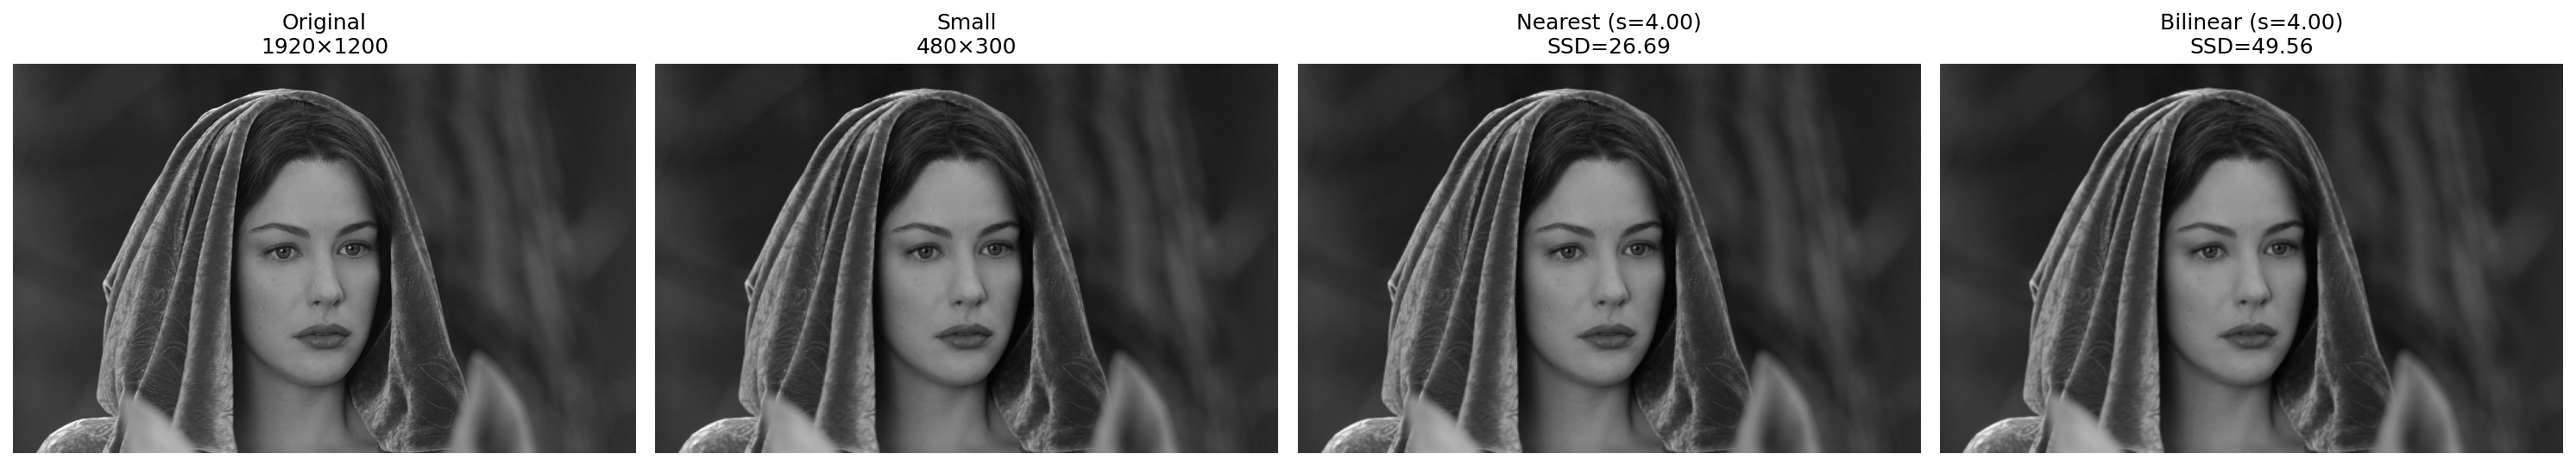
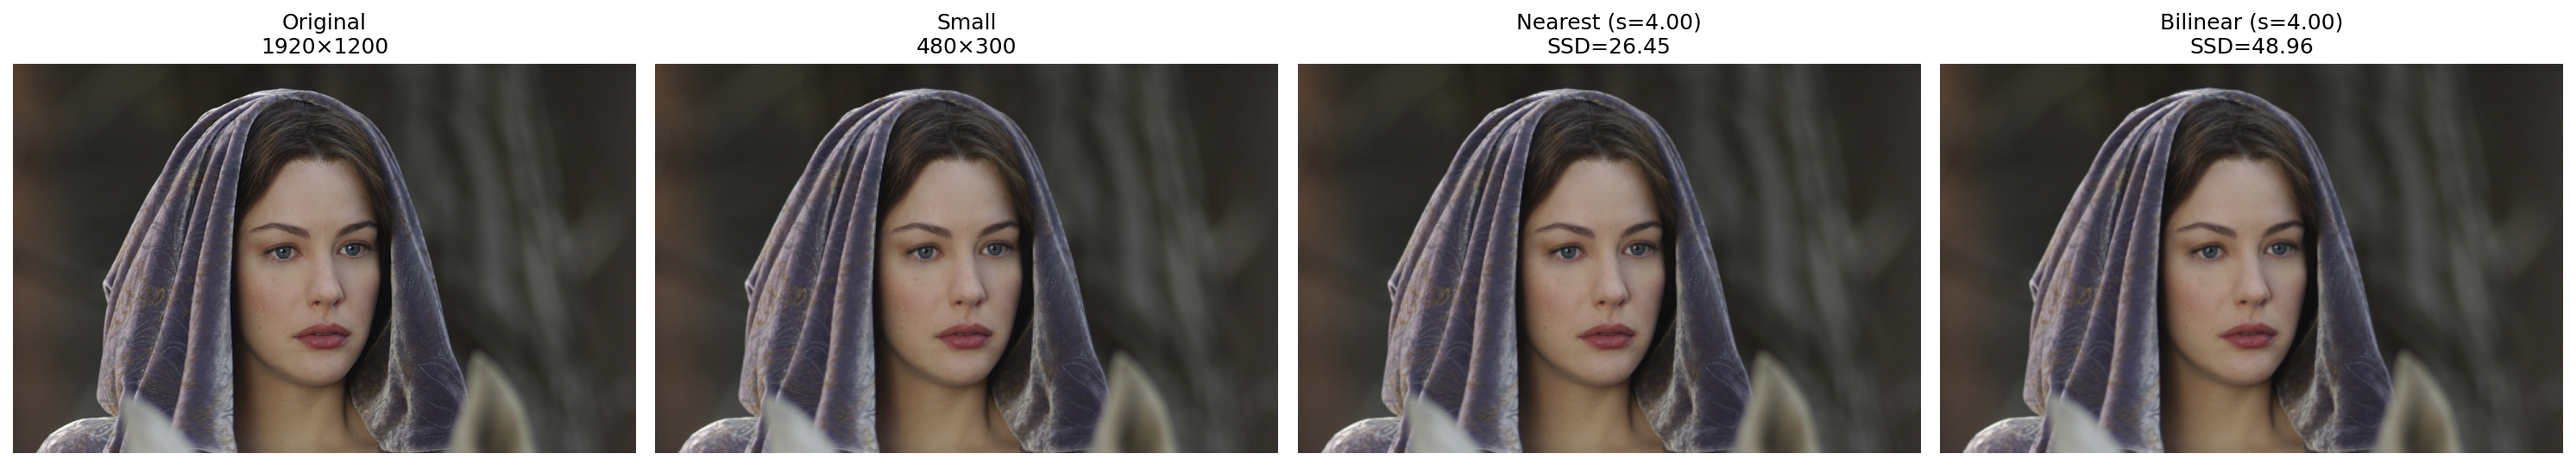
Update zoom test to read colour images

diff --git a/zoom_ssd_test.py b/zoom_ssd_test.py
@@ -17,16 +17,20 @@ def normalized_ssd(img_a, img_b):
 
 
 def evaluate(original_path, small_path):
-    original = cv2.imread(original_path, cv2.IMREAD_GRAYSCALE)
-    small    = cv2.imread(small_path,    cv2.IMREAD_GRAYSCALE)
+    original_bgr = cv2.imread(original_path)
+    small_bgr    = cv2.imread(small_path)
 
-    if original is None:
+    if original_bgr is None:
         raise FileNotFoundError(f"Could not load '{original_path}'")
-    if small is None:
+    if small_bgr is None:
         raise FileNotFoundError(f"Could not load '{small_path}'")
 
-    H, W = original.shape
-    h, w = small.shape
+    # Convert BGR → RGB for display
+    original = cv2.cvtColor(original_bgr, cv2.COLOR_BGR2RGB)
+    small    = cv2.cvtColor(small_bgr,    cv2.COLOR_BGR2RGB)
+
+    H, W = original.shape[:2]
+    h, w = small.shape[:2]
     s = W / w   # scale factor to match original size
 
     zoomed_nn = zoom(small, s=s, method='nearest')
@@ -62,19 +66,19 @@ for orig_path, small_path in pairs:
 
     fig, axes = plt.subplots(1, 4, figsize=(20, 5))
 
-    axes[0].imshow(original, cmap='gray')
+    axes[0].imshow(original, cmap=None)
     axes[0].set_title(f'Original\n{original.shape[1]}×{original.shape[0]}')
     axes[0].axis('off')
 
-    axes[1].imshow(small, cmap='gray')
+    axes[1].imshow(small, cmap=None)
     axes[1].set_title(f'Small\n{small.shape[1]}×{small.shape[0]}')
     axes[1].axis('off')
 
-    axes[2].imshow(zoomed_nn, cmap='gray')
+    axes[2].imshow(zoomed_nn, cmap=None)
     axes[2].set_title(f'Nearest (s={s:.2f})\nSSD={ssd_nn:.2f}')
     axes[2].axis('off')
 
-    axes[3].imshow(zoomed_bl, cmap='gray')
+    axes[3].imshow(zoomed_bl, cmap=None)
     axes[3].set_title(f'Bilinear (s={s:.2f})\nSSD={ssd_bl:.2f}')
     axes[3].axis('off')
 
